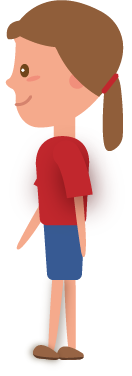
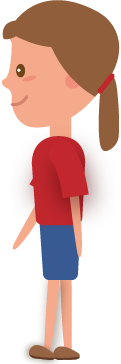
girl model added, animation is off so character select disabled

diff --git a/game.py b/game.py
@@ -1,7 +1,7 @@
 import pygame
 import os
 from button import PlayButton, SettingsButton, ExitButton, BackButton
-from game_scenes import Hall_Scene, Room_Scene
+from game_scenes import Hall_Scene, Room_Scene, Character_Scene
 from player import Player
 from objects import Box
 from interface import UI
@@ -40,17 +40,19 @@ class Game:
         self.done = False
         self.clock = pygame.time.Clock()
         self.menu = True
-        self.player = Player(self.screen)
-        self.all_scenes = [
-            ("Hallway", Hall_Scene(self)),
-            ("Room_Scene", Room_Scene(self.player, self.screen))
-        ]
+        # self.player = Player(self.screen)
+        self.all_scenes = []
+        # self.all_scenes = [
+        #     ("Hallway", Hall_Scene(self)),
+        #     ("Room_Scene", Room_Scene(self.player, self.screen))
+        # ]
         self.scene_names = ["Hallway", "Room_Scene"]
         self.scene_num = 0
-        self.current_scene = self.all_scenes[self.scene_num][1]
+        # self.current_scene = self.all_scenes[self.scene_num][1]
         self.collision_counter = 0
         self.bleedout_timer = 0
         self.bleeding = False
+        self.model_chosen = 'boy'
 
     """Main Game Loop
 
@@ -58,6 +60,12 @@ class Game:
     """
 
     def main_loop(self):
+        self.player = Player(self.screen, self.model_chosen)
+        self.all_scenes = [
+            ("Hallway", Hall_Scene(self)),
+            ("Room_Scene", Room_Scene(self.player, self.screen))
+        ]
+        self.current_scene = self.all_scenes[self.scene_num][1]
         pygame.mixer.music.load(self.gameM)
         pygame.mixer.music.play(-1)
         my_group = pygame.sprite.Group(self.player)
@@ -303,6 +311,33 @@ class Game:
             pygame.display.update()
         pygame.quit()
         exit()
+
+    def character_select(self):
+        print("Character Select")
+        char_menu = True
+        scene = Character_Scene(self)
+        events_list = []
+        while char_menu:
+            for event in pygame.event.get():
+                if event.type == pygame.QUIT:
+                    char_menu = False
+                    pygame.quit()
+                    exit()
+                if event.type == pygame.KEYDOWN:
+                    if event.key == pygame.K_ESCAPE:
+                        char_menu = False
+                        pygame.quit()
+                        exit()
+                else:
+                    events_list.append(event)
+            scene.ProcessInput(events_list, [])
+            scene.Update()
+            scene.Render(self.screen)
+            if scene.canAdvance:
+                char_menu = False
+            self.clock.tick(60)
+            pygame.display.update()
+        self.main_loop()
 
 
 """Main Runner

diff --git a/game_scenes.py b/game_scenes.py
@@ -3,6 +3,56 @@ from scenebase import SceneBase
 from objects import Box, Chair, Document, DocumentItem, Gear, GearItem, Item, Painting
 
 
+class Character_Scene(SceneBase):
+    def __init__(self, game):
+        SceneBase.__init__(self)
+        self.game = game
+        # self.game.player.model_chosen
+        self.screen = self.game.screen
+        self.char_options = ["boy", "girl"]
+        self.canAdvance = False
+        self.w, self.h = pygame.display.get_surface().get_size()
+
+        self.bg_image = pygame.transform.smoothscale(pygame.image.load(
+            'assets/menu_bg.png').convert(), (self.w, self.h))
+
+        self.boySprite = pygame.sprite.Sprite()
+        self.boySprite.image = pygame.image.load('assets/characters/boy.png')
+        self.boySprite.rect = self.boySprite.image.get_rect(
+            center=(self.w/2-self.w/4, self.h/2))
+        self.girlSprite = pygame.sprite.Sprite()
+        self.girlSprite.image = pygame.image.load('assets/characters/girl.png')
+        self.girlSprite.rect = self.boySprite.image.get_rect(
+            center=((self.w/2+self.w/4, self.h/2)))
+
+        self.character_list = [self.boySprite, self.girlSprite]
+        self.chars_group = pygame.sprite.Group()
+        self.chars_group.add(self.boySprite)
+        self.chars_group.add(self.girlSprite)
+
+    def ProcessInput(self, events, pressed_keys):
+        for event in events:
+            if event.type == pygame.MOUSEBUTTONDOWN and event.button == 1:
+                print(event.pos)
+                i = 0
+                for item in self.character_list:
+                    if item.rect.collidepoint(event.pos):
+                        self.game.model_chosen = self.char_options[i]
+                        self.canAdvance = True
+                    i += 1
+
+    def Update(self):
+        pass
+
+    def Render(self, screen):
+        self.screen.blit(self.bg_image, (0, 0))
+        self.chars_group.update()
+        self.chars_group.draw(self.screen)
+
+    def SwitchToScene(self, next_scene):
+        return super().SwitchToScene(next_scene)
+
+
 class Hall_Scene(SceneBase):
     def __init__(self, game):
         SceneBase.__init__(self)

diff --git a/player.py b/player.py
@@ -2,7 +2,7 @@ import pygame
 
 
 class Player(pygame.sprite.Sprite):
-    def __init__(self, screen):
+    def __init__(self, screen, model):
         super(Player, self).__init__()
         self.walking = False
         self.walking_left = False
@@ -10,19 +10,19 @@ class Player(pygame.sprite.Sprite):
         self.images = []
         self.images_left = []
         self.standing_image = pygame.image.load(
-            'assets/characters/boy.png').convert_alpha()
+            f'assets/characters/{model}.png').convert_alpha()
         self.w, self.h = pygame.display.get_surface().get_size()
         self.x = 120
         self.y = 600
         for x in range(0, 5):
             print(x)
             i = pygame.image.load(
-                f'assets/characters/boy_{x}.png').convert_alpha()
+                f'assets/characters/{model}_{x}.png').convert_alpha()
             self.images.append(pygame.transform.flip(i, True, False))
         for x in range(0, 5):
             print(x)
             i = pygame.image.load(
-                f'assets/characters/boy_{x}.png').convert_alpha()
+                f'assets/characters/{model}_{x}.png').convert_alpha()
             self.images_left.append(i)
         self.current_time = 1961
         # Player details, for now it just has the demo stuff
@@ -34,7 +34,6 @@ class Player(pygame.sprite.Sprite):
             'Floor': 2,
             'Time': 1961
         }
-
         self.index = 0
         self.image = self.images[self.index]
         self.rect = pygame.Rect(self.x, self.y, 155, 395)

diff --git a/button.py b/button.py
@@ -84,6 +84,7 @@ class PlayButton(Button):
         pygame.mixer.music.stop()
         # Go to main game loop.. but how?
         calling.main_loop()
+        # calling.character_select()
 
         print('clicked play')
         # return 2
@@ -91,6 +92,7 @@ class PlayButton(Button):
 
 class BackButton(Button):
     def mouse_click(self, calling):
+        # calling.character_select()
         calling.main_menu()
         print("back to main menu")
 
